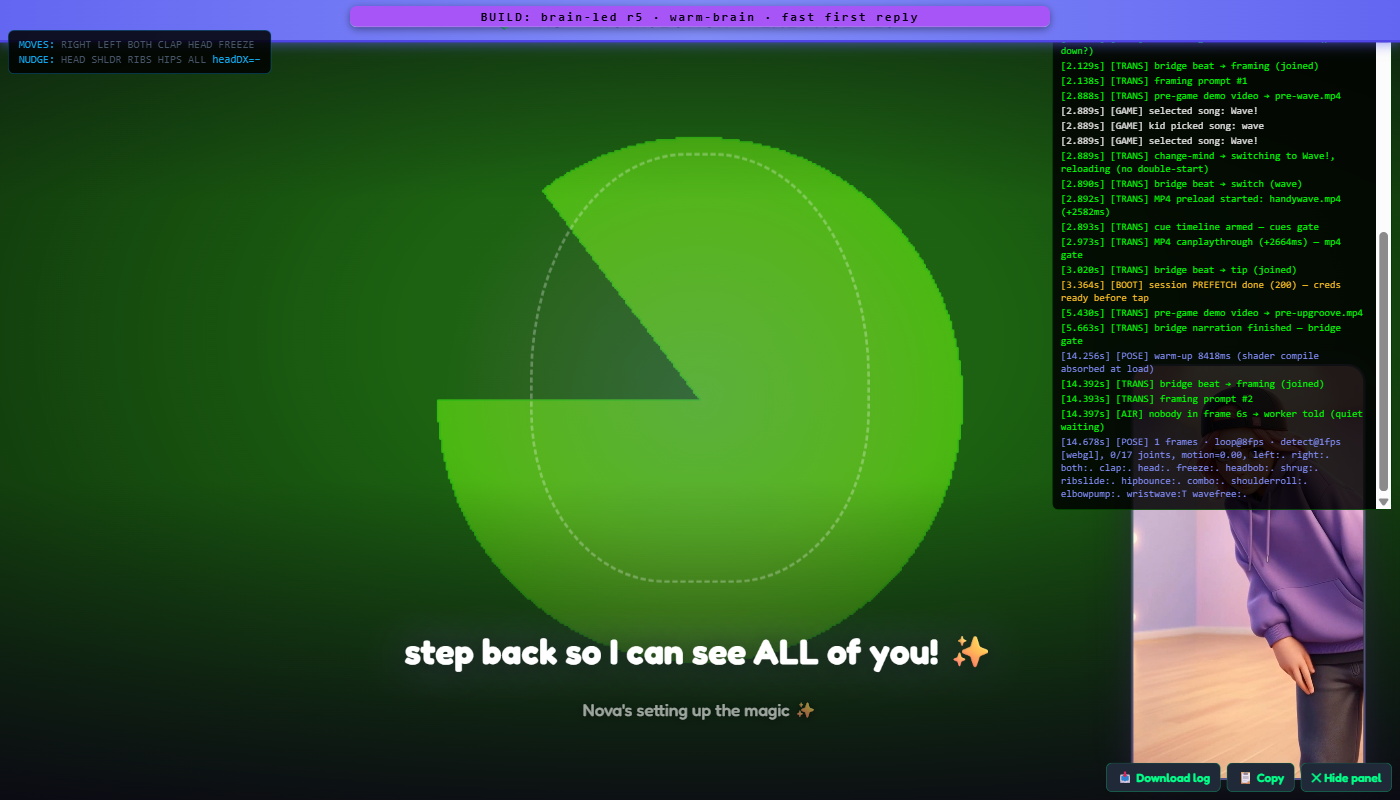
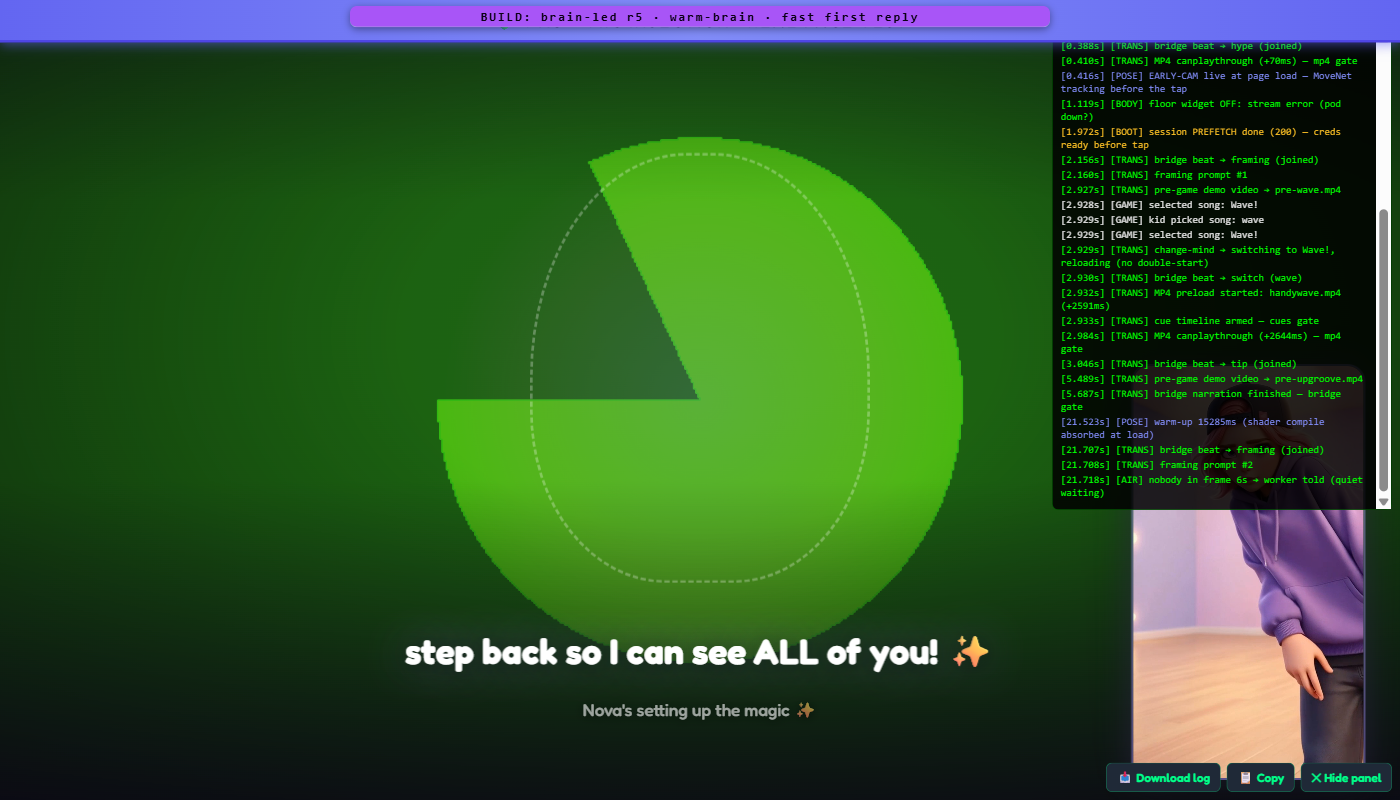
nova-app: port FINISH-THE-GAME frontend — picked event + pre-game demo VIDEO PiP
Commercial page now current with nova-joined (b55826c): pick → 'picked' rides to
the worker + the session recording plays muted bottom-right over the transition;
change-mind swaps, showPhase kills on exit, hello no-ops.
Verified: qa-predemo.js against nova-app.html 8/8 PASS in real Chrome.

diff --git a/nova-app.html b/nova-app.html
@@ -622,6 +622,16 @@ body{font-family:'Quicksand',sans-serif;color:#fff}
 #trans-sub{position:absolute;left:50%;bottom:10%;transform:translateX(-50%);
   font-family:'Fredoka',cursive;font-weight:500;font-size:clamp(13px,2.2vmin,17px);
   color:rgba(255,255,255,.6);text-shadow:0 1px 10px rgba(0,0,0,.6)}
+/* PRE-GAME DEMO VIDEO (FINISH-THE-GAME 2026-07-16): a real session recording of the
+   picked game rides the load as a portrait PiP — the kid SEES the game they're about
+   to play. Muted (the live bridge voice owns the room); sits under the caption/guide
+   in DOM order so the step-back prompts always paint on top. */
+#pre-demo{position:absolute;right:2.5vw;bottom:2.5vh;height:52vh;aspect-ratio:9/16;
+  border-radius:18px;border:2px solid rgba(167,139,250,.5);object-fit:cover;
+  box-shadow:0 12px 44px rgba(0,0,0,.55),0 0 30px rgba(167,139,250,.25);
+  opacity:0;transform:translateY(14px) scale(.97);pointer-events:none;
+  transition:opacity .5s ease,transform .5s ease}
+#pre-demo.showing{opacity:1;transform:none}
 
 /* ═══════════════════════════════════════════
    PHASE 4: GAME — the song
@@ -1253,6 +1263,7 @@ body.energy-max #game-bg{filter:saturate(1.6) brightness(1.1) hue-rotate(15deg)}
   <video id="trans-cam" autoplay playsinline muted></video>
   <div id="trans-scrim"></div>
   <div id="trans-glow"></div>
+  <video id="pre-demo" muted playsinline preload="none"></video>
   <div id="trans-frameguide"></div>
   <div id="trans-cap" data-l="transGettingReady">getting ready…</div>
   <div id="trans-sub" data-l="transSub">Nova's setting up the magic ✨</div>
@@ -1403,8 +1414,34 @@ body.energy-max #game-bg{filter:saturate(1.6) brightness(1.1) hue-rotate(15deg)}
 function showPhase(id){
   document.querySelectorAll('.phase').forEach(p=>p.classList.remove('active'));
   document.getElementById(id).classList.add('active');
+  // the pre-game demo video lives only on the transition screen — any other phase kills it
+  if (id !== 'phase-transition') { try { hidePreDemo(); } catch(_){} }
   // TASK 4: phase transitions with timestamps → session log (the loop's eyes, forever)
   (window.__phaseLog = window.__phaseLog || []).push({ phase: id, at: Math.round(performance.now()) });
+}
+
+// PRE-GAME DEMO VIDEO (FINISH-THE-GAME 2026-07-16): the committed session recordings
+// (pre-upgroove.mp4 / pre-wave.mp4, portrait 720x1280) ride the load as a muted PiP
+// on the transition screen. pickGame() calls this before startTransition, so it also
+// covers change-mind re-picks; showPhase() kills it on any exit from the transition.
+const PRE_DEMO_SRC = { joined: 'pre-upgroove.mp4', wave: 'pre-wave.mp4' };
+function showPreDemo(songId){
+  const v = document.getElementById('pre-demo');
+  if (!v) return;
+  const src = PRE_DEMO_SRC[songId];
+  if (!src) { hidePreDemo(); return; }   // hello has no session recording yet
+  if (!(v.getAttribute('src') || '').endsWith(src)) { v.src = src; v.load(); }
+  v.muted = true;                        // her live voice owns the room
+  try { v.currentTime = 0; } catch(_){}
+  v.classList.add('showing');
+  v.play().catch(()=>{});
+  if (typeof LOG === 'function') LOG('TRANS', `pre-game demo video → ${src}`);
+}
+function hidePreDemo(){
+  const v = document.getElementById('pre-demo');
+  if (!v || !v.classList.contains('showing')) return;
+  v.classList.remove('showing');
+  try { v.pause(); } catch(_){}
 }
 function onArrivalTap(){
   // v103: log first so we know click registered
@@ -1461,6 +1498,11 @@ function goToPicker(){
 }
 function pickGame(songId){
   if(typeof markUserInteraction === 'function') markUserInteraction();
+  // FINISH-THE-GAME (2026-07-16): the worker learns about the pick INSTANTLY —
+  // her loading-hype line rides while the game boots.
+  try { if(window.__novaSend) window.__novaSend({ kind:'game-event', event:{ event:'picked', song: songId } }); } catch(_){}
+  // PRE-GAME DEMO VIDEO: the real session recording plays while the game loads
+  try { if (typeof showPreDemo === 'function') showPreDemo(songId); } catch(_){}
   // PRE-GAME DEMO (2026-07-11): the kid picked → full-body Nova demos the game's
   // move on the floor widget while it loads (pre_upgroove / pre_wave in the bank).
   try {
